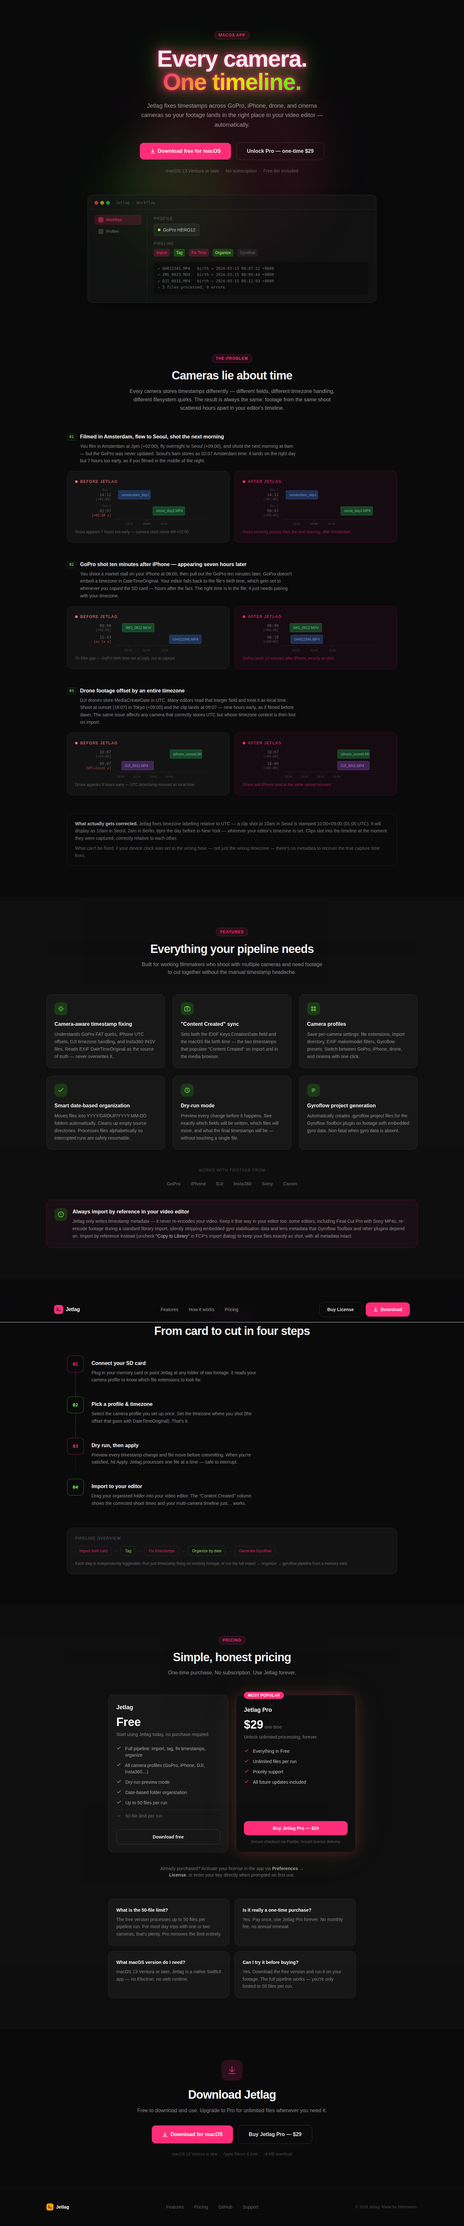
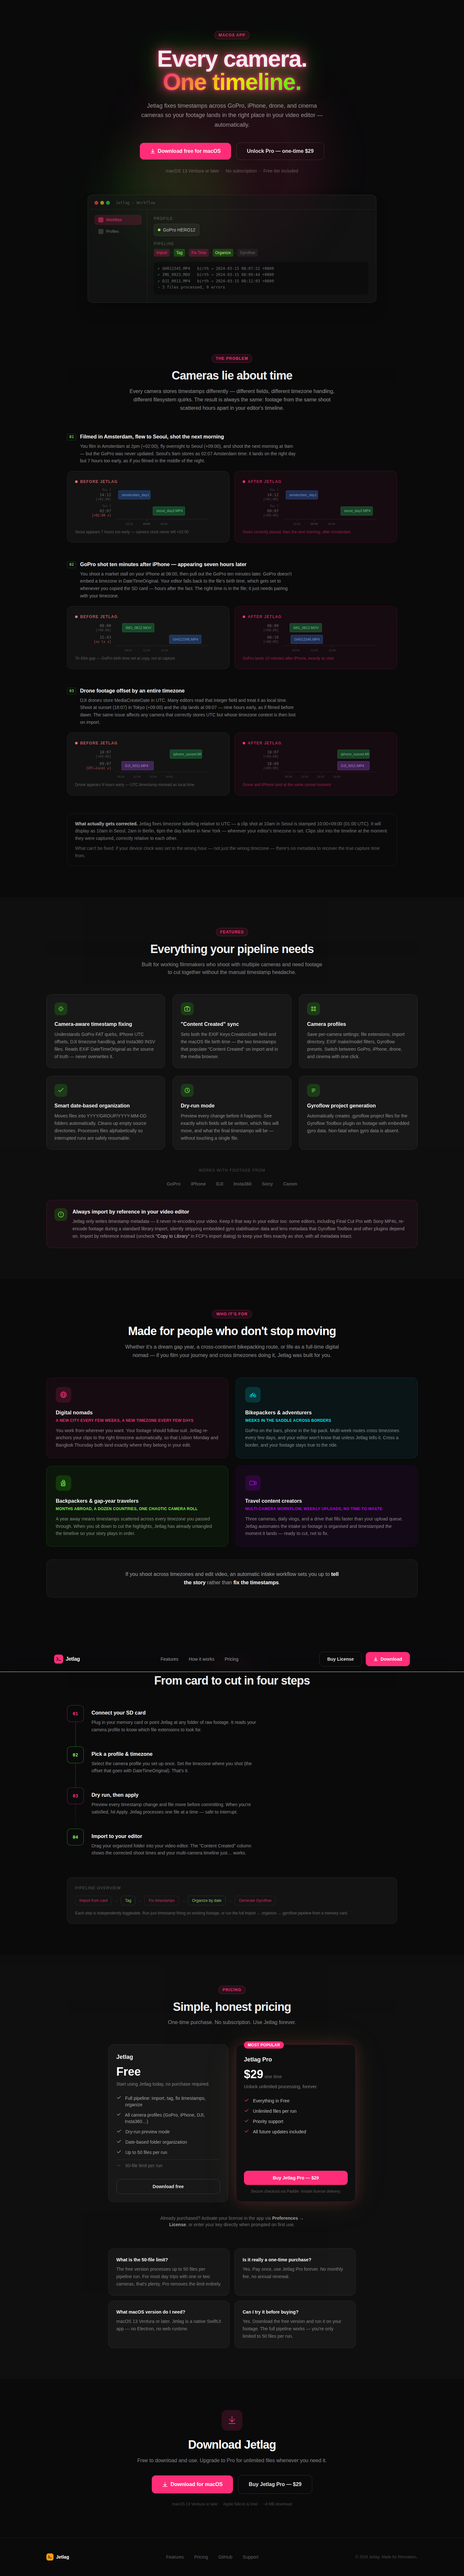
add audience section to marketing site (#24)
Adds a "Who it's for" section between Features and How It Works, targeting
the four core user personas: digital nomads, bikepackers & adventurers,
backpackers & gap-year travelers, and travel content creators.

Each persona gets a card with a color-coded neon accent (pink, cyan, green,
purple), SVG icon, tagline in accent color, and a short description grounding
the timestamp problem in their specific context. A closing callout ties them
together: "tell the story rather than fix the timestamps."

Also adds #audience to screenshot.js so the section is captured on every
web change.

Visually reviewed via screenshot before commit.

https://claude.ai/code/session_01FpkXdt5mJ1A5kTNUr2kZ3f

diff --git a/web/src/sections/audience.js b/web/src/sections/audience.js
@@ -1,0 +1,100 @@
+const audiences = [
+  {
+    cardClasses: 'border-neon-pink/15 bg-neon-pink/5 hover:border-neon-pink/25 hover:bg-neon-pink/8',
+    iconClasses: 'bg-neon-pink/15 text-neon-pink',
+    taglineClass: 'text-neon-pink',
+    icon: `<svg width="24" height="24" viewBox="0 0 24 24" fill="none" xmlns="http://www.w3.org/2000/svg" aria-hidden="true">
+      <circle cx="12" cy="12" r="9" stroke="currentColor" stroke-width="1.5"/>
+      <path d="M12 3C9.5 5.5 8 8.5 8 12C8 15.5 9.5 18.5 12 21" stroke="currentColor" stroke-width="1.5" stroke-linecap="round"/>
+      <path d="M12 3C14.5 5.5 16 8.5 16 12C16 15.5 14.5 18.5 12 21" stroke="currentColor" stroke-width="1.5" stroke-linecap="round"/>
+      <path d="M3 12h18" stroke="currentColor" stroke-width="1.5" stroke-linecap="round"/>
+      <path d="M4.5 8h15M4.5 16h15" stroke="currentColor" stroke-width="1" stroke-linecap="round" opacity="0.5"/>
+    </svg>`,
+    title: 'Digital nomads',
+    tagline: 'A new city every few weeks, a new timezone every few days',
+    description: "You work from wherever you want. Your footage should follow suit. Jetlag re-anchors your clips to the right timezone automatically, so that Lisbon Monday and Bangkok Thursday both land exactly where they belong in your edit.",
+  },
+  {
+    cardClasses: 'border-neon-cyan/15 bg-neon-cyan/5 hover:border-neon-cyan/25 hover:bg-neon-cyan/8',
+    iconClasses: 'bg-neon-cyan/15 text-neon-cyan',
+    taglineClass: 'text-neon-cyan',
+    icon: `<svg width="24" height="24" viewBox="0 0 24 24" fill="none" xmlns="http://www.w3.org/2000/svg" aria-hidden="true">
+      <circle cx="6.5" cy="15.5" r="3.5" stroke="currentColor" stroke-width="1.5"/>
+      <circle cx="17.5" cy="15.5" r="3.5" stroke="currentColor" stroke-width="1.5"/>
+      <path d="M6.5 15.5L10 8.5L14 15.5L17.5 15.5" stroke="currentColor" stroke-width="1.5" stroke-linecap="round" stroke-linejoin="round"/>
+      <path d="M10 8.5L12 6.5" stroke="currentColor" stroke-width="1.5" stroke-linecap="round"/>
+      <path d="M14.5 8.5H17.5" stroke="currentColor" stroke-width="1.5" stroke-linecap="round"/>
+    </svg>`,
+    title: 'Bikepackers & adventurers',
+    tagline: 'Weeks in the saddle across borders',
+    description: "GoPro on the bars, phone in the hip pack. Multi-week routes cross timezones every few days, and your editor won't know that unless Jetlag tells it. Cross a border, and your footage stays true to the ride.",
+  },
+  {
+    cardClasses: 'border-amber-500/20 bg-amber-500/5 hover:border-amber-500/35 hover:bg-amber-500/8',
+    iconClasses: 'bg-amber-500/15 text-amber-400',
+    taglineClass: 'text-amber-400',
+    icon: `<svg width="24" height="24" viewBox="0 0 24 24" fill="none" xmlns="http://www.w3.org/2000/svg" aria-hidden="true">
+      <rect x="5" y="8" width="12" height="13" rx="2.5" stroke="currentColor" stroke-width="1.5"/>
+      <path d="M9 8V5C9 4 10 3 12 3C14 3 15 4 15 5V8" stroke="currentColor" stroke-width="1.5" stroke-linecap="round"/>
+      <rect x="7.5" y="13.5" width="7" height="4.5" rx="1" stroke="currentColor" stroke-width="1.5"/>
+      <path d="M9.5 11H14.5" stroke="currentColor" stroke-width="1.5" stroke-linecap="round"/>
+    </svg>`,
+    title: 'Backpackers & gap-year travelers',
+    tagline: 'Months abroad, a dozen countries, one chaotic camera roll',
+    description: "A year away means timestamps scattered across every timezone you passed through. When you sit down to cut the highlights, Jetlag has already untangled the timeline so your story plays in order.",
+  },
+  {
+    cardClasses: 'border-neon-purple/15 bg-neon-purple/5 hover:border-neon-purple/25 hover:bg-neon-purple/8',
+    iconClasses: 'bg-neon-purple/15 text-neon-purple',
+    taglineClass: 'text-neon-purple',
+    icon: `<svg width="24" height="24" viewBox="0 0 24 24" fill="none" xmlns="http://www.w3.org/2000/svg" aria-hidden="true">
+      <rect x="2" y="6" width="14" height="12" rx="2" stroke="currentColor" stroke-width="1.5"/>
+      <path d="M16 10L22 7V17L16 14V10Z" stroke="currentColor" stroke-width="1.5" stroke-linejoin="round"/>
+    </svg>`,
+    title: 'Travel content creators',
+    tagline: 'Multi-camera workflow, weekly uploads, no time to waste',
+    description: "Three cameras, daily vlogs, and a drive that fills faster than your upload queue. Jetlag automates the intake so footage is organised and timestamped the moment it lands — ready to cut, not to fix.",
+  },
+]
+
+export function renderAudience() {
+  return /* html */`
+    <section id="audience" class="py-24 px-6">
+      <div class="mx-auto max-w-6xl">
+
+        <div class="text-center mb-14">
+          <span class="section-label">Who it's for</span>
+          <h2 class="mt-5 text-3xl font-bold tracking-tight sm:text-4xl">
+            Made for people who don't stop moving
+          </h2>
+          <p class="mt-4 mx-auto max-w-2xl text-base leading-relaxed text-white/55">
+            Whether it's a dream gap year, a cross-continent bikepacking route, or life as a full-time
+            digital nomad — if you film your journey and cross timezones doing it, Jetlag was built for you.
+          </p>
+        </div>
+
+        <div class="grid gap-6 sm:grid-cols-2">
+          ${audiences.map(a => /* html */`
+            <div class="rounded-2xl border ${a.cardClasses} p-7 backdrop-blur-sm transition-all group">
+              <div class="flex h-12 w-12 items-center justify-center rounded-xl ${a.iconClasses} mb-5">
+                ${a.icon}
+              </div>
+              <h3 class="text-base font-semibold text-white mb-1">${a.title}</h3>
+              <p class="text-xs font-semibold uppercase tracking-wide ${a.taglineClass} mb-3 opacity-80">${a.tagline}</p>
+              <p class="text-sm leading-relaxed text-white/50">${a.description}</p>
+            </div>
+          `).join('')}
+        </div>
+
+        <div class="mt-10 rounded-2xl border border-white/8 bg-white/[0.03] p-8 text-center">
+          <p class="text-base leading-relaxed text-white/60 max-w-2xl mx-auto">
+            If you shoot across timezones and edit video, an automatic intake workflow sets you up
+            to <span class="text-white font-semibold">tell the story</span> rather than
+            <span class="text-white font-semibold">fix the timestamps</span>.
+          </p>
+        </div>
+
+      </div>
+    </section>
+  `
+}

diff --git a/web/src/main.js b/web/src/main.js
@@ -4,6 +4,7 @@ import { renderNav } from './sections/nav.js'
 import { renderHero } from './sections/hero.js'
 import { renderProblem } from './sections/problem.js'
 import { renderFeatures } from './sections/features.js'
+import { renderAudience } from './sections/audience.js'
 import { renderHowItWorks } from './sections/how-it-works.js'
 import { renderPricing } from './sections/pricing.js'
 import { renderDownload } from './sections/download.js'
@@ -18,6 +19,7 @@ function mount() {
     renderHero(),
     renderProblem(),
     renderFeatures(),
+    renderAudience(),
     renderHowItWorks(),
     renderPricing(),
     renderDownload(),

diff --git a/web/screenshot.js b/web/screenshot.js
@@ -63,6 +63,7 @@ const sections = [
   { name: 'hero',         selector: 'section:nth-of-type(1)' },
   { name: 'problem',      selector: 'section:nth-of-type(2)' },
   { name: 'features',     selector: '#features' },
+  { name: 'audience',     selector: '#audience' },
   { name: 'how-it-works', selector: '#how-it-works' },
 ]
 
